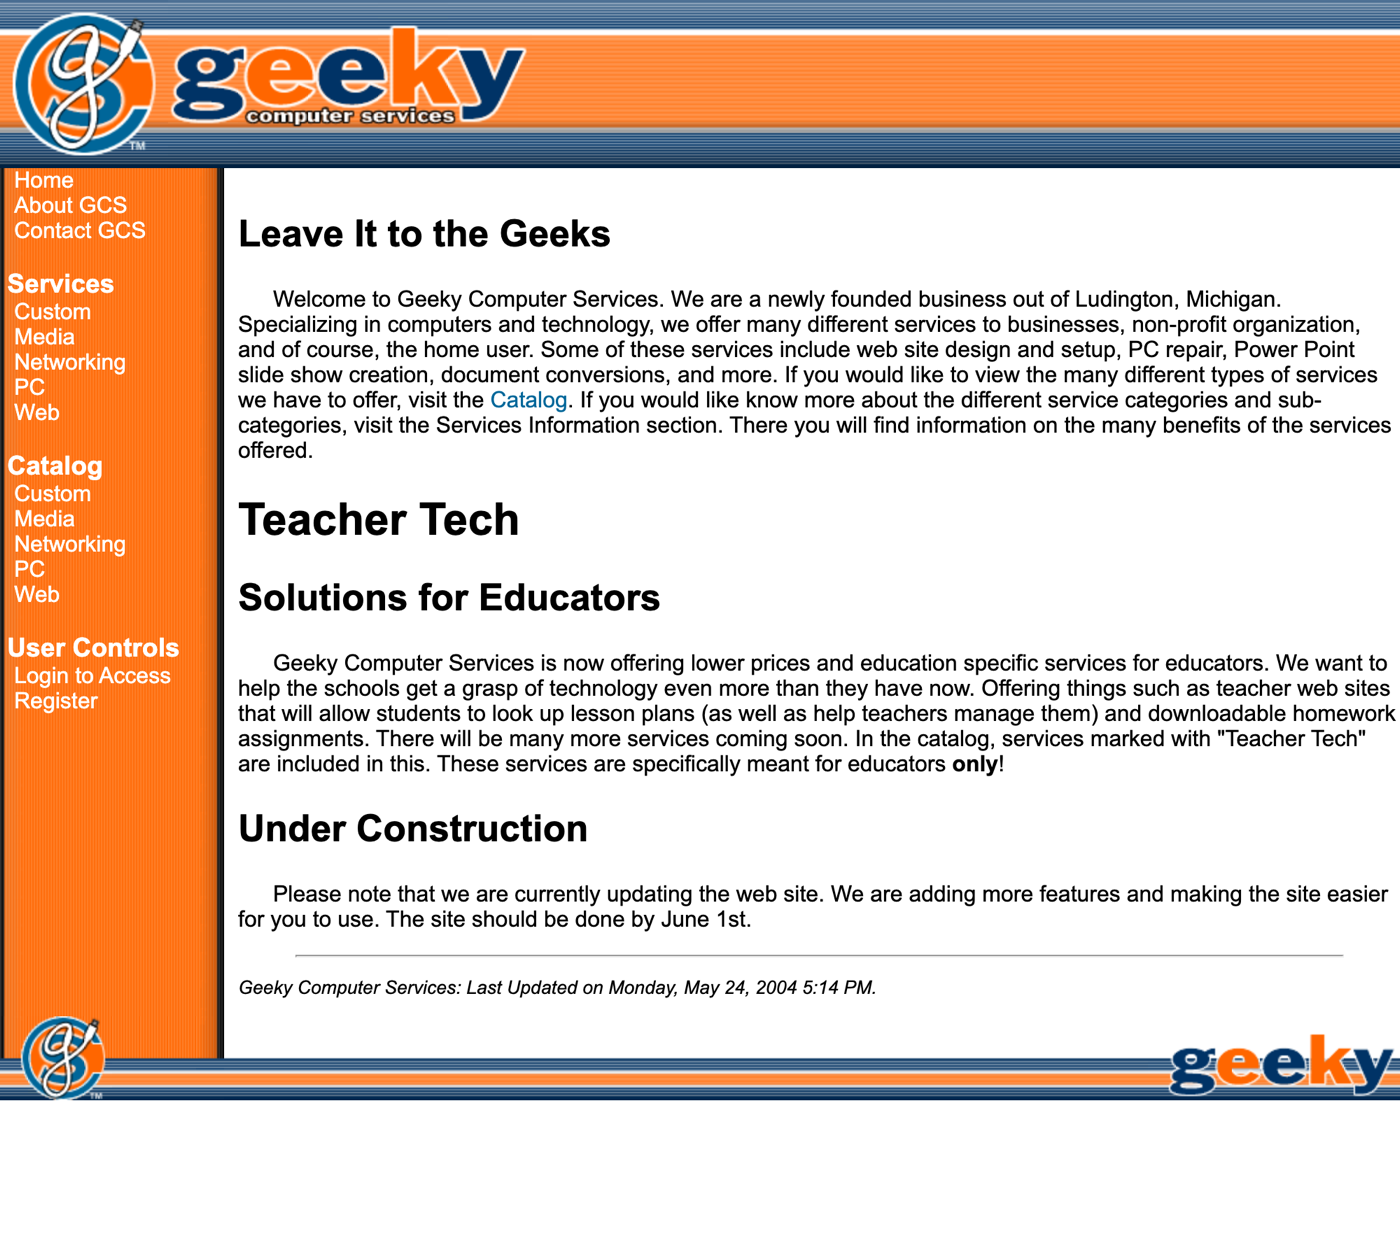
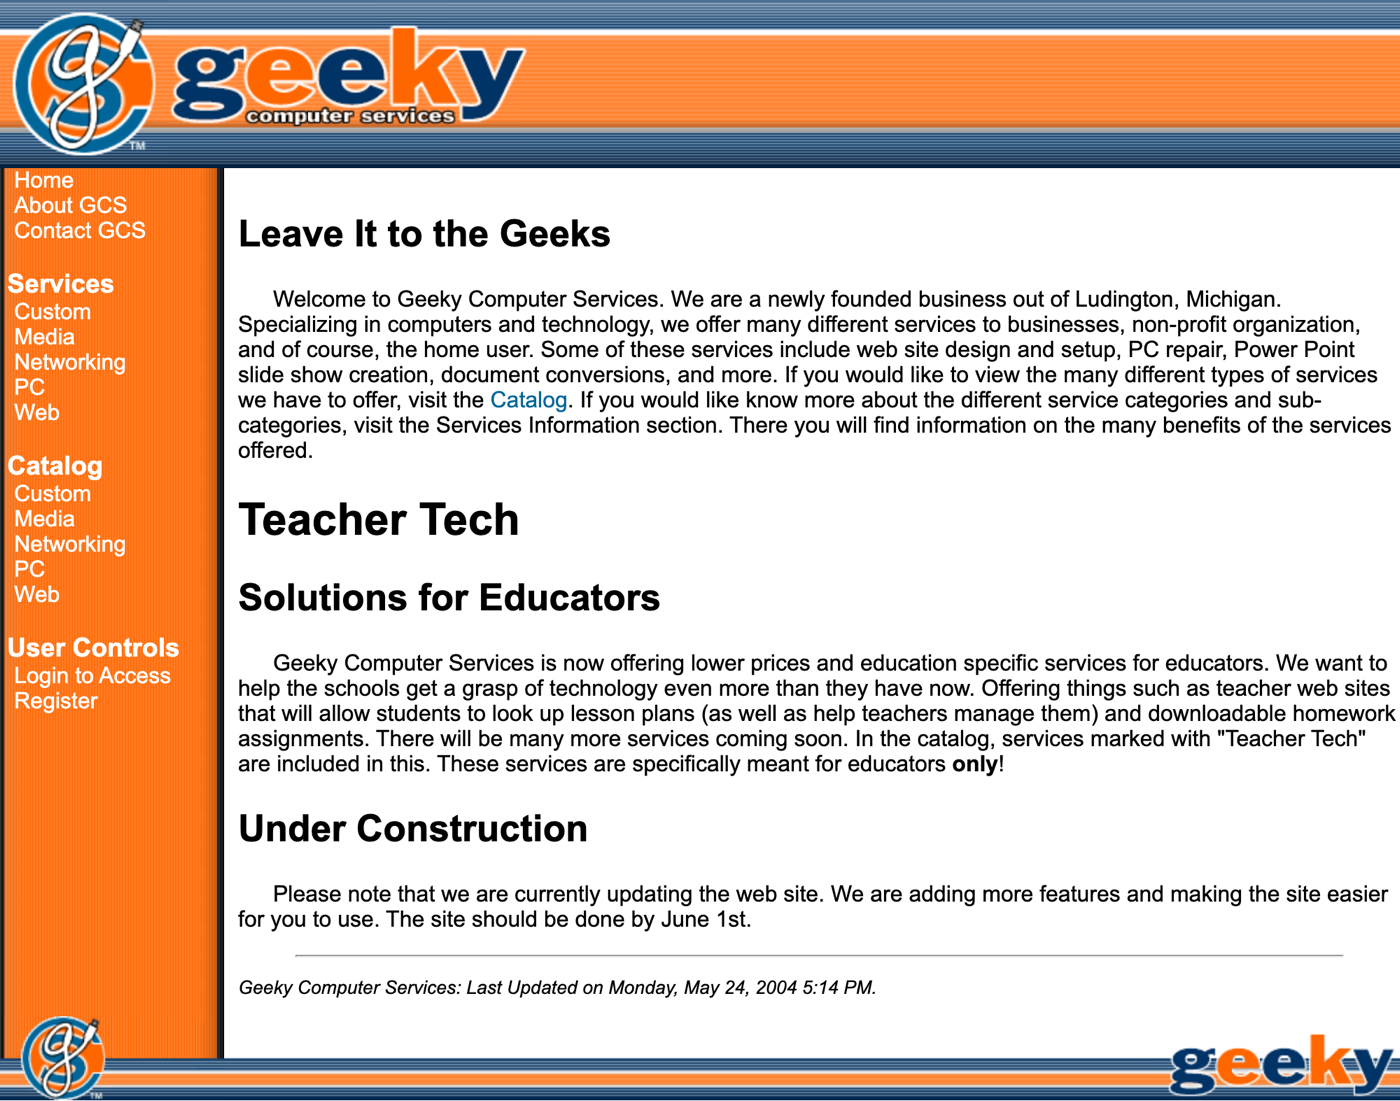
Trim trailing whitespace from the 2004 capture

diff --git a/src/index.html b/src/index.html
@@ -372,7 +372,7 @@ catalog.aspx: add, "Suggest a Service Feature"</pre
             src="/images/site-2004.png"
             alt="The Geeky Computer Services home page as captured on May 28, 2004: orange and navy banner, orange sidebar navigation, and the headings Leave It to the Geeks, Teacher Tech, and Under Construction."
             width="1400"
-            height="1260"
+            height="1101"
             class="w-full border border-slate-300 shadow-sm"
             loading="lazy"
           />
